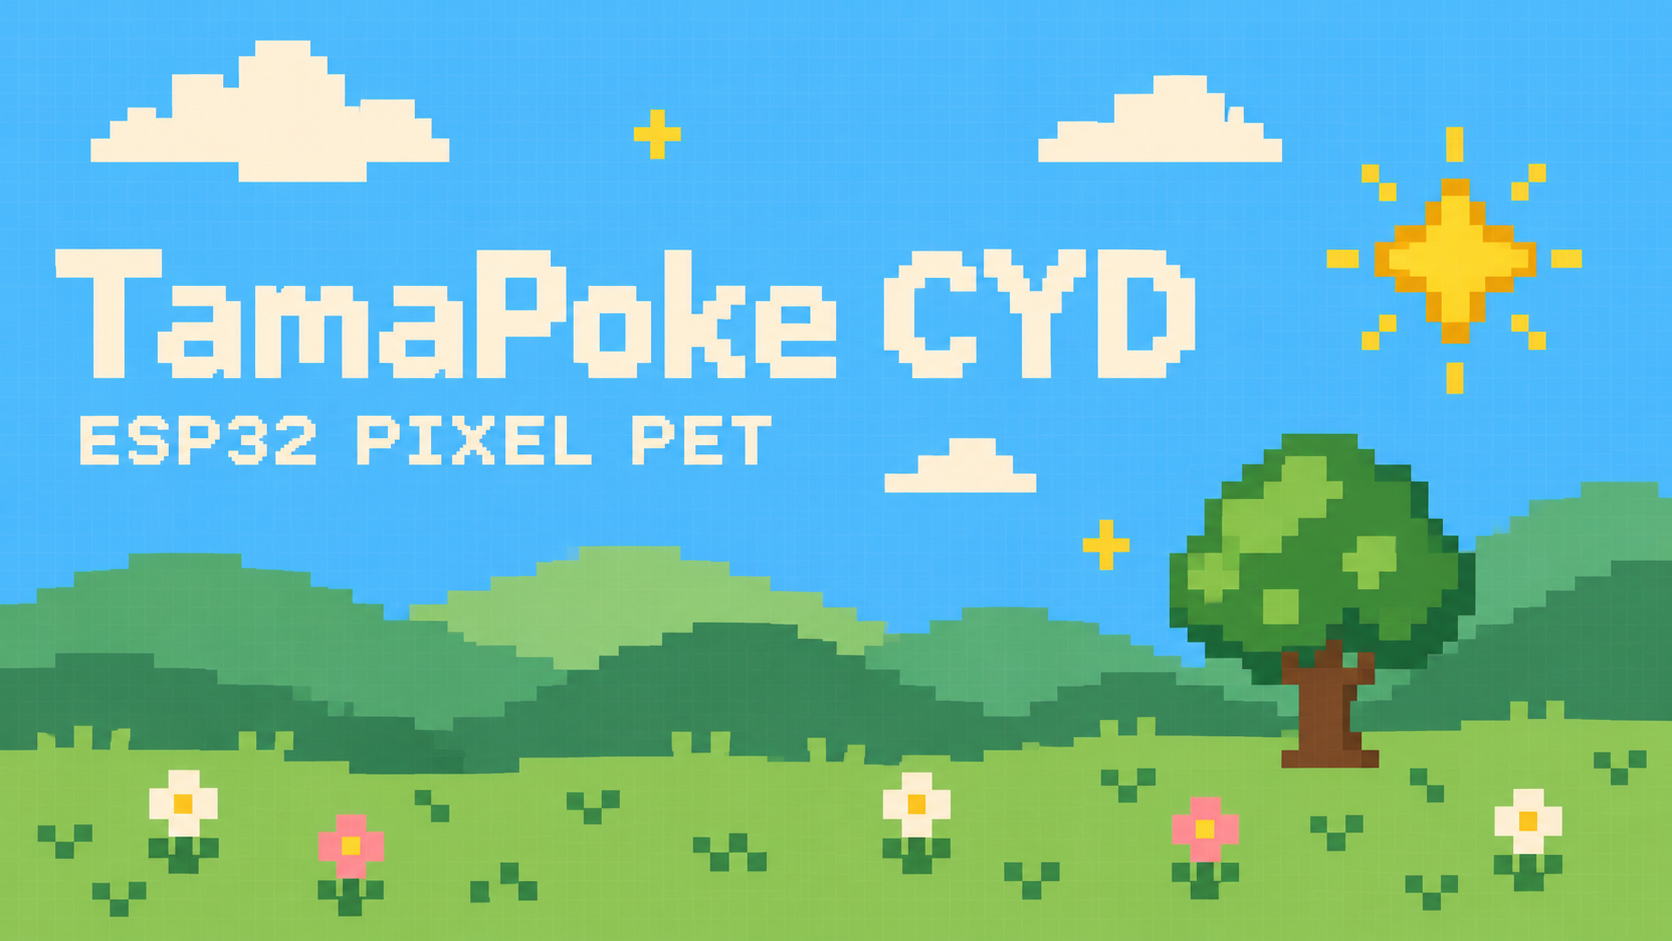
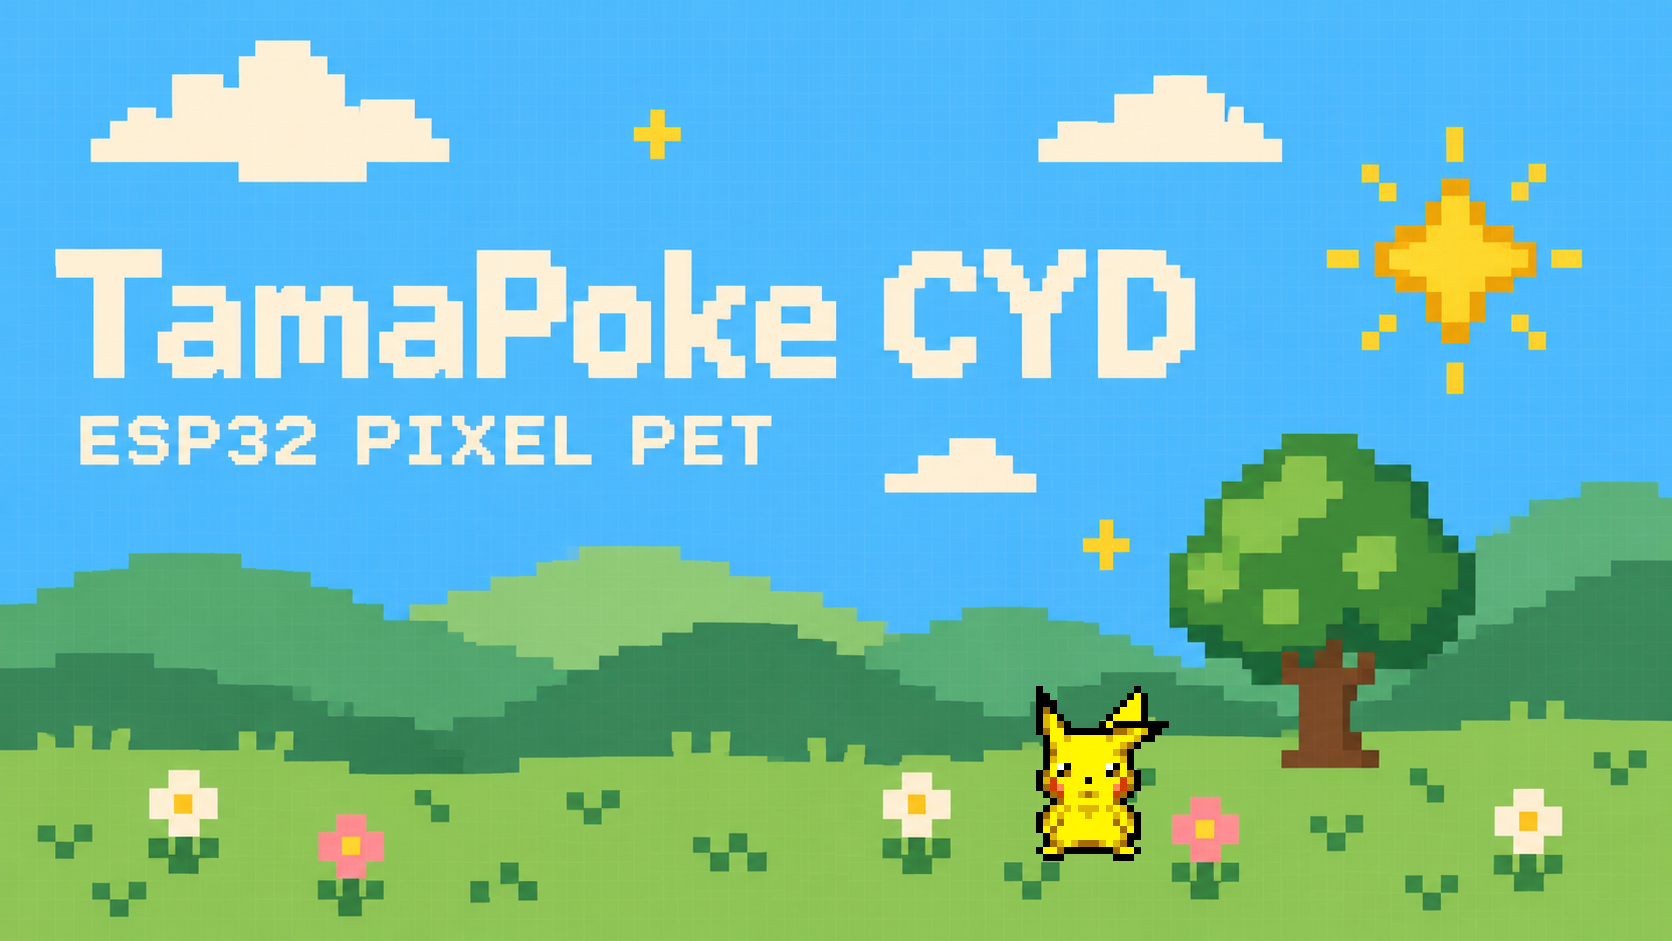
Add native pixel Pikachu to the approved project cover

Changed region(s): [[0.622, 0.7396, 0.7153, 0.9245]]

diff --git a/web/index.html b/web/index.html
@@ -8,7 +8,7 @@
   <meta http-equiv="Content-Security-Policy" content="default-src 'self'; script-src 'self'; style-src 'self'; img-src 'self' data:; connect-src 'self'; object-src 'none'; base-uri 'self'">
   <meta property="og:title" content="TamaPoke CYD｜像素皮卡丘與網頁燒錄">
   <meta property="og:description" content="ESP32-2432S028 · 320×240 · 無須 PSRAM · 三款小遊戲">
-  <meta property="og:image" content="https://maxxtang.github.io/TamaPoke-CYD/assets/cover.png">
+  <meta property="og:image" content="https://maxxtang.github.io/TamaPoke-CYD/assets/cover.png?v=2">
   <title>TamaPoke CYD｜像素皮卡丘與網頁燒錄</title>
   <link rel="stylesheet" href="./style.css">
   <link rel="icon" href="./assets/screens/home.png" type="image/png">
@@ -24,7 +24,7 @@
   </header>
   <main id="main">
     <section class="hero wrap" aria-labelledby="hero-title">
-      <img class="cover" src="./assets/cover.png" alt="TamaPoke CYD 像素草地封面插畫" width="1672" height="940" fetchpriority="high">
+      <img class="cover" src="./assets/cover.png?v=2" alt="TamaPoke CYD 像素草地與小皮卡丘封面插畫" width="1672" height="941" fetchpriority="high">
       <div class="hero-copy">
         <p class="eyebrow">ESP32 · CYD 2.8 吋 · 像素養成</p>
         <h1 id="hero-title">把皮卡丘，<br>養在小小草地裡。</h1>
@@ -91,6 +91,6 @@
       <details><summary>想用命令列或備份原程式？</summary><p>請參考 <a href="https://github.com/MAXXTANG/TamaPoke-CYD/blob/main/docs/cyd/README.md">編譯、完整 Flash 備份與進階安裝說明</a>。原始 Flash 備份只保存於你自己的電腦，不會上傳到本網站或 repo。</p></details>
     </section>
   </main>
-  <footer class="wrap"><p>TamaPoke CYD · v0.4.0-cyd · <a href="https://github.com/MAXXTANG/TamaPoke-CYD">MAXXTANG / GitHub</a></p><p class="small">非官方、非商業粉絲專案。角色與名稱屬 Nintendo／Game Freak／The Pokémon Company；像素素材來自 PMD SpriteCollab。<a href="https://github.com/MAXXTANG/TamaPoke-CYD/blob/main/THIRD_PARTY_NOTICES.md">授權與來源</a>。封面為 AI 生成專案插畫。</p></footer>
+  <footer class="wrap"><p>TamaPoke CYD · v0.4.0-cyd · <a href="https://github.com/MAXXTANG/TamaPoke-CYD">MAXXTANG / GitHub</a></p><p class="small">非官方、非商業粉絲專案。角色與名稱屬 Nintendo／Game Freak／The Pokémon Company；像素素材來自 PMD SpriteCollab。<a href="https://github.com/MAXXTANG/TamaPoke-CYD/blob/main/THIRD_PARTY_NOTICES.md">授權與來源</a>。封面以 AI 場景搭配既有像素角色合成。</p></footer>
 </body>
 </html>

diff --git a/tools/compose_cover.py b/tools/compose_cover.py
@@ -1,0 +1,53 @@
+#!/usr/bin/env python3
+"""Compose the approved cover and existing native sprite (requires Pillow)."""
+import hashlib
+import json
+from pathlib import Path
+
+from PIL import Image, ImageChops, ImageOps
+
+ROOT = Path(__file__).resolve().parents[1]
+IMAGES = ROOT / "docs/images"
+SCALE, X, Y = 7, 1036, 686
+
+
+def sha(path):
+    return hashlib.sha256(path.read_bytes()).hexdigest()
+
+
+def main():
+    base = Image.open(IMAGES / "cover-landscape.png").convert("RGB")
+    source = Image.open(IMAGES / "pikachu-idle.png").convert("RGBA")
+    assert source.size == (19, 25)
+    sprite = source.resize((source.width * SCALE, source.height * SCALE), Image.Resampling.NEAREST)
+    assert X + sprite.width <= base.width and Y + sprite.height <= base.height
+    result = base.convert("RGBA")
+    result.alpha_composite(sprite, (X, Y))
+    result = result.convert("RGB")
+    difference = ImageChops.difference(base, result)
+    mask = Image.new("L", base.size, 0)
+    mask.paste(sprite.getchannel("A"), (X, Y))
+    # All pixels outside the existing opaque sprite must stay exactly equal.
+    assert ImageChops.multiply(difference, ImageOps.invert(mask).convert("RGB")).getbbox() is None
+    assert difference.getbbox() is not None
+    output = IMAGES / "cover.png"
+    result.save(output)
+    assert Image.open(output).size == base.size
+    record = {
+        "method": "User-authorized direct composition of the existing native sprite; no generated character",
+        "base": "cover-landscape.png", "base_sha256": sha(IMAGES / "cover-landscape.png"),
+        "sprite": "pikachu-idle.png", "sprite_sha256": sha(IMAGES / "pikachu-idle.png"),
+        "sprite_source": "assets/p025.bin, first idle frame cropped to opaque bounds",
+        "sprite_native_pixels": [19, 25], "scale": SCALE, "resampling": "nearest-neighbor",
+        "position": [X, Y], "sprite_bounds": [X, Y, X + sprite.width, Y + sprite.height],
+        "cover_pixels": list(base.size), "outside_sprite_pixels_unchanged": True,
+        "output_sha256": sha(output),
+        "base_file_preserved": True,
+        "provenance": "Derived PNG is a composition; original generated cover and its original metadata are retained separately.",
+    }
+    (IMAGES / "cover-composition.json").write_text(json.dumps(record, indent=2) + "\n")
+    print(f"Composed {output}: {base.size}, native sprite enlarged {SCALE}x; all other pixels unchanged")
+
+
+if __name__ == "__main__":
+    main()

diff --git a/docs/images/COVER.md b/docs/images/COVER.md
@@ -1,9 +1,19 @@
 # 封面來源
 
-`cover.png` 是使用內建 **image_gen** 製作的專案封面插畫，並非韌體截圖或硬體照片。
+`cover.png` 以內建 **image_gen** 製作的場景為底，依使用者明確授權，直接合成專案既有的小皮卡丘像素素材。這是專案封面插畫，並非韌體截圖或硬體照片。
 
 基礎封面提示詞：
 
 > Create a wide landscape 16:9 pixel-art cover for an open-source ESP32 handheld pixel game project. Full bleed opaque scene with a crisp uniform square pixel grid, pastel sky blue, sage green grass, layered green hills, a small pixel tree, cream-colored pixel clouds, tiny flowers and a few golden pixel stars. Charming calm retro game mood. Large readable cream pixel-font title in the left half, exactly "TamaPoke CYD"; smaller supporting text exactly "ESP32 PIXEL PET". Spacious balanced composition. Right half shows the landscape and a single bright golden pixel star. No characters, people, mascots, animals, physical electronics or device frames. No brand marks or watermarks. Avoid gradients, smooth curves and realistic rendering. This is a title cover illustration, not a screenshot.
 
 `cover-landscape.png` 保存已核准的基礎封面。`pikachu-idle.png` 為專案既有的原生 19×25 像素角色影格，來源是 `assets/p025.bin`；素材權利與非商業條件見 [第三方聲明](../../THIRD_PARTY_NOTICES.md)。
+
+合成使用最近鄰整數 7 倍放大，角色為 133×175 像素，放在右側草地、樹木左邊。角色之外的每個像素與基礎圖完全一致；標題、背景、配色與 1672×941 畫布均保留。輸入與輸出雜湊、座標及驗證範圍見 [cover-composition.json](cover-composition.json)。合成圖另存 PNG，原始生成圖與原有來源資訊完整保留於基礎圖檔。
+
+可重做合成（Pillow 僅用於這個選用工具，韌體與網站整理無此依賴）：
+
+```sh
+python3 -m pip install Pillow==13.0.0
+python3 tools/compose_cover.py
+python3 tools/build_web.py
+```

diff --git a/README.md b/README.md
@@ -1,6 +1,6 @@
 # TamaPoke CYD
 
-![TamaPoke CYD 像素封面](docs/images/cover.png)
+![TamaPoke CYD 像素封面與小皮卡丘](docs/images/cover.png?v=2)
 
 把皮卡丘養在 **ESP32-2432S028 CYD 2.8 吋觸控板**上。滿版像素草地、四個照顧圖示、三款小遊戲；USB 供電，**4 MB Flash、無須 PSRAM 或 microSD**。
 
@@ -23,7 +23,7 @@
 | --- | --- | --- |
 | ![夜間草地與睡覺的皮卡丘](docs/cyd/screens/sleep.png) | ![四種需求的數值視窗](docs/cyd/screens/status.png) | ![沙包碎落與星星效果](docs/cyd/screens/training-break.png) |
 
-這些介面截圖由**與韌體相同的繪圖程式**產生，使用示例存檔，並非 LCD 攝影。來源與雜湊在 [provenance.json](docs/cyd/screens/provenance.json)。另保留 [0.2.0 裝置端像素擷取](evidence/cyd/device-frame-0.2.0.png)。封面為 AI 生成專案插畫。
+這些介面截圖由**與韌體相同的繪圖程式**產生，使用示例存檔，並非 LCD 攝影。來源與雜湊在 [provenance.json](docs/cyd/screens/provenance.json)。另保留 [0.2.0 裝置端像素擷取](evidence/cyd/device-frame-0.2.0.png)。封面以 AI 生成場景搭配既有像素角色合成，見 [封面來源](docs/images/COVER.md)。
 
 ## 安裝
 

diff --git a/THIRD_PARTY_NOTICES.md b/THIRD_PARTY_NOTICES.md
@@ -12,6 +12,6 @@
 
 Interface images in `docs/cyd/screens/` and `web/assets/screens/` are generated by the same CYD render functions with sample data. They are not physical LCD photos; provenance and image hashes accompany them. `evidence/cyd/device-frame-0.2.0.png` was read from the device renderer over USB, also not a photograph.
 
-The cover is an AI-generated project illustration. Its creation method and prompt are recorded in `docs/images/COVER.md`; it is not hardware or screenshot evidence.
+The cover combines an AI-generated landscape with the existing, unchanged Pikachu pixel sprite, composited at the user's explicit request. Its creation method, prompt, input hashes and composition record are in `docs/images/COVER.md` and `cover-composition.json`; it is not hardware or screenshot evidence. Sprite rights and non-commercial conditions above continue to apply.
 
 Full upstream credits: [docs/UPSTREAM_CREDITS.md](docs/UPSTREAM_CREDITS.md).
